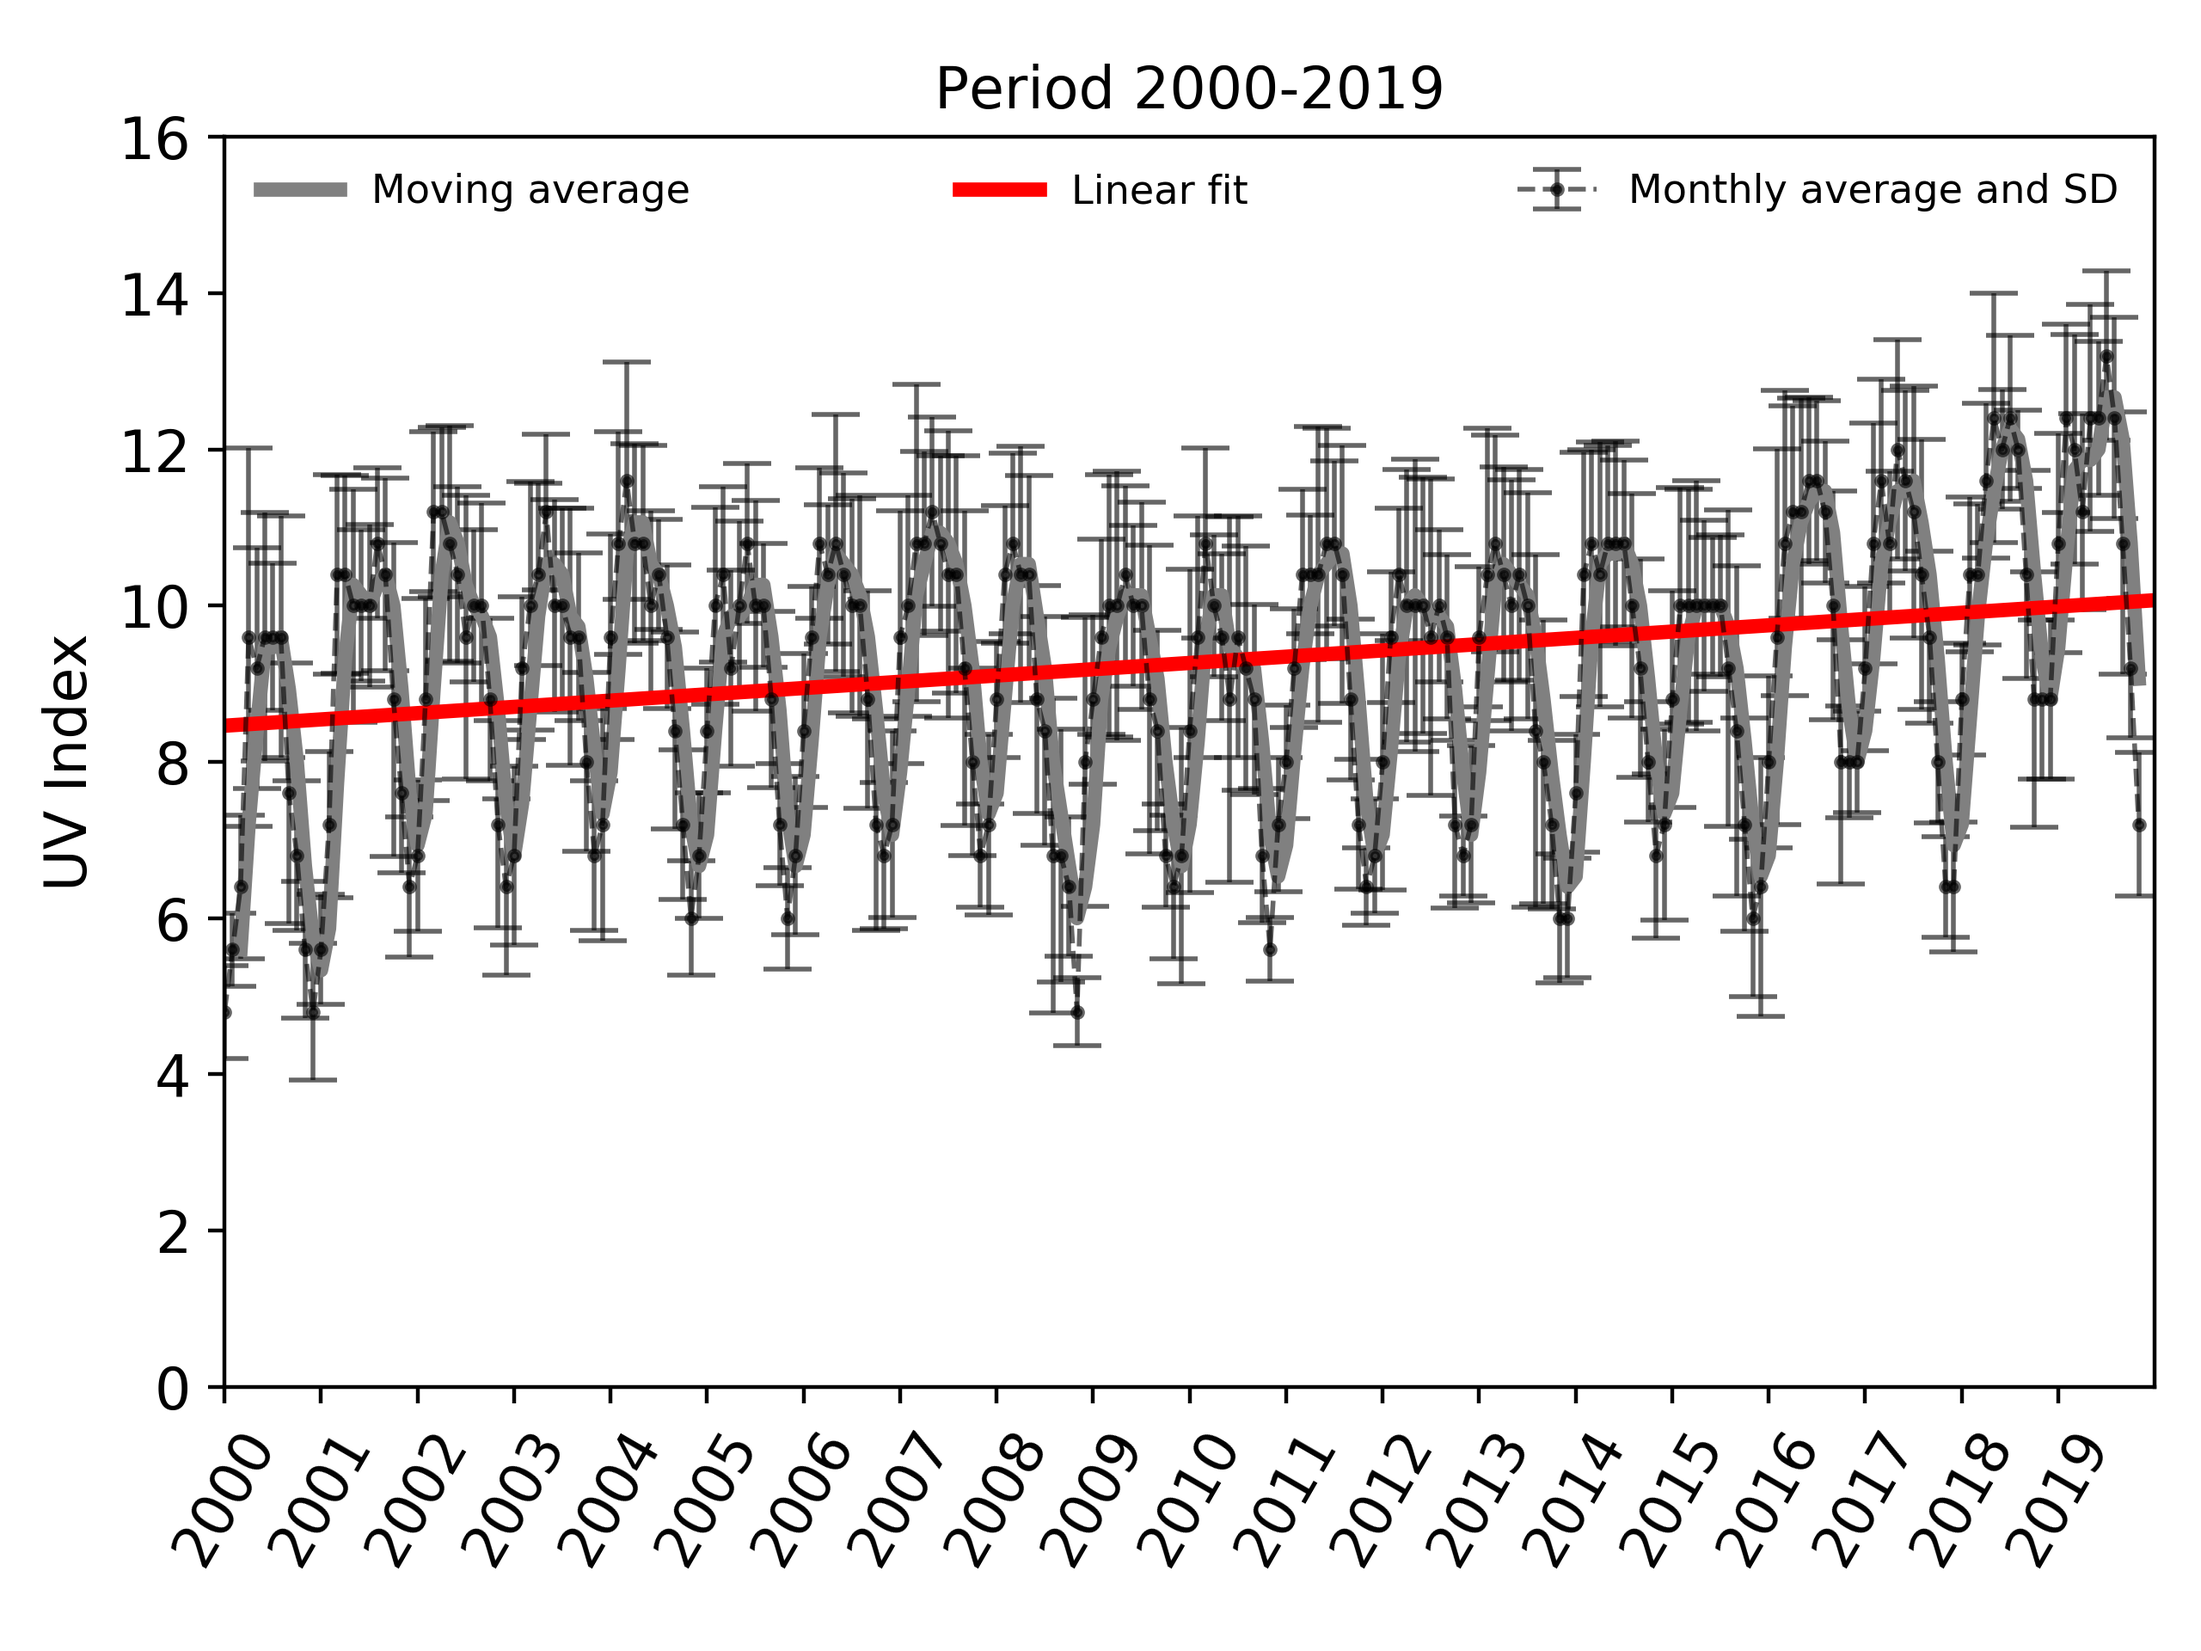
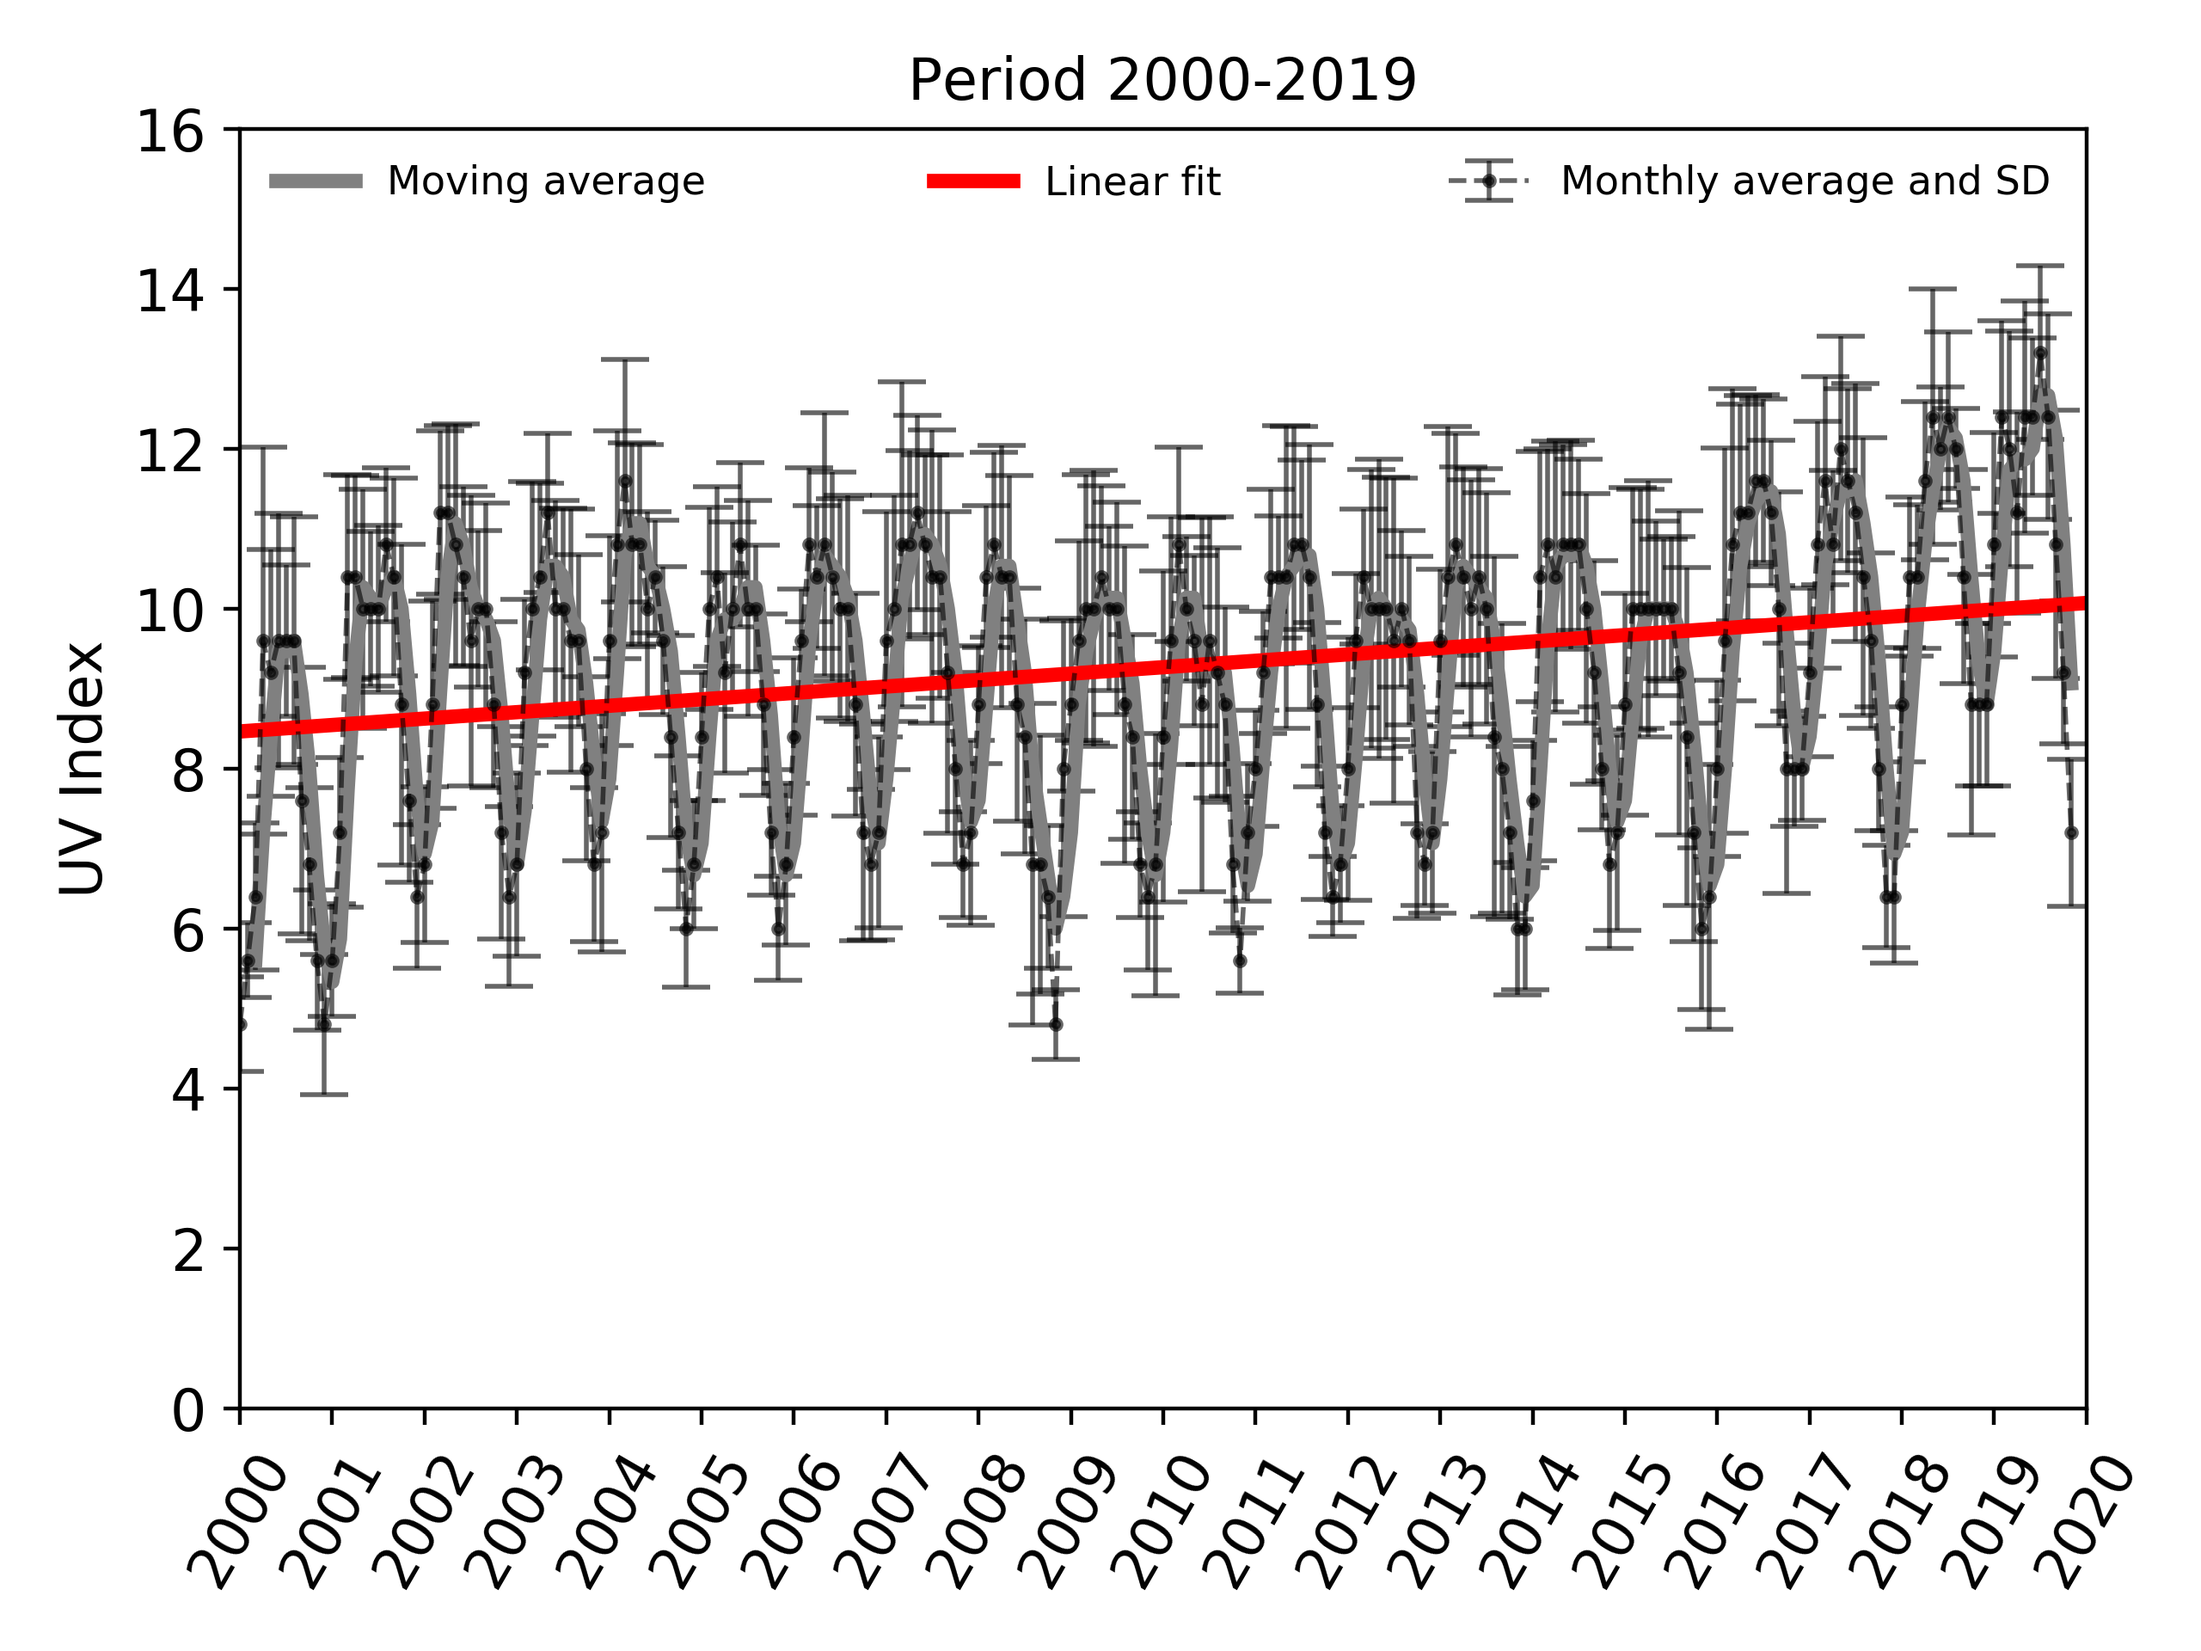
Change in graphics

Changed region(s): [[0.0, 0.0312, 1.0, 0.9688]]

diff --git a/2000-2019/Scripts/Graphics_Movile_Mean_UV.py b/2000-2019/Scripts/Graphics_Movile_Mean_UV.py
@@ -35,7 +35,7 @@ print("UVI:\t   \t{:.2f}\t{:.1f}\t{:.1f}".format(
 fit = np.poly1d(fit)
 pd2 = fit(np.append(X, 20))
 # <--------------------Inicio de la grafica UVyearlyError----------------------------------->
-plt.xticks(X*12, years,
+plt.xticks(np.append(X, 20)*12, np.append(years, 2020),
            rotation=60,
            fontsize=12)
 plt.yticks(fontsize=12)
@@ -66,10 +66,13 @@ plt.plot(np.append(X, 20)*12, pd2,
          label="Linear fit",
          color="red",
          linewidth=3)
-plt.subplots_adjust(left=0.102,
-                    right=0.979,
-                    bottom=0.16,
-                    top=0.917)
+plt.subplots_adjust(top=0.922,
+                    bottom=0.147,
+                    left=0.109,
+                    right=0.948,
+                    hspace=0.2,
+                    wspace=0.2
+                    )
 plt.legend(ncol=3,
            mode="expand",
            frameon=False,
@@ -77,3 +80,4 @@ plt.legend(ncol=3,
 # <---------------Guardado de la grafica-------------->
 plt.savefig(inputs["path graphics"]+"UV_Moving_Average.png",
             dpi=400)
+# plt.show()

diff --git a/2000-2019/Scripts/Graphics_pollutants.py b/2000-2019/Scripts/Graphics_pollutants.py
@@ -73,7 +73,7 @@ plt.subplots_adjust(top=0.97,
 ax2 = ax1.twinx()
 ax5 = ax4.twinx()
 axs = np.array([ax2, ax1, ax3, ax4, ax5, ax3])
-print("Pollutant\t Mean\t  e\t  m\t   b")
+print("Pollutant\t  m\tMean\t  e\t     b")
 for input, ax in zip(inputs, axs):
     tick = inputs[input]["tick"]
     color = inputs[input]["color"]
@@ -93,8 +93,8 @@ for input, ax in zip(inputs, axs):
         mean = list(data["AOD 340nm"])
     fit = np.polyfit(x, mean, 1)
     prom = round(np.mean(mean), 3)
-    print("{}\t\t {:.1f}\t {:.1f}\t {:.2f}\t {:.2f}".format(
-        input, prom, fit[0]*100/prom, fit[0], fit[1]))
+    print("{}\t\t {:.2f}\t {:.1f}\t {:.1f}\t {:.2f}".format(
+        input, fit[0], prom, fit[0]*100/prom,  fit[1]))
     ax.plot(label, mean,
             ls="-",
             label=tick,

diff --git a/2000-2019/Scripts/Graphics_UVI_OMI.py b/2000-2019/Scripts/Graphics_UVI_OMI.py
@@ -29,7 +29,8 @@ numyear = ["2005",
            "2019"]
 inputs = {
     "path data": "../Archivos/",
-    "column": "OPUVindex",
+    "path graphics": "../Graphics/",
+    "column": "CSUVindex",
     "year initial": 2005,
     "year final": 2019,
     "UV minium": 1,
@@ -104,5 +105,6 @@ cbar.ax.set_ylabel("UV Index",
                    fontsize=11)
 cbar.set_ticks(UV_values)
 ax.set_title("UV Index satellite-derived in Mexico City \n Period 2005-2019")
-plt.show()
-# plt.savefig("../Graficas/UVI-OMI.png", dpi=300)
+plt.savefig("{}{}-OMI.png".format(inputs["path graphics"],
+                                  inputs["column"]),
+            dpi=300)
